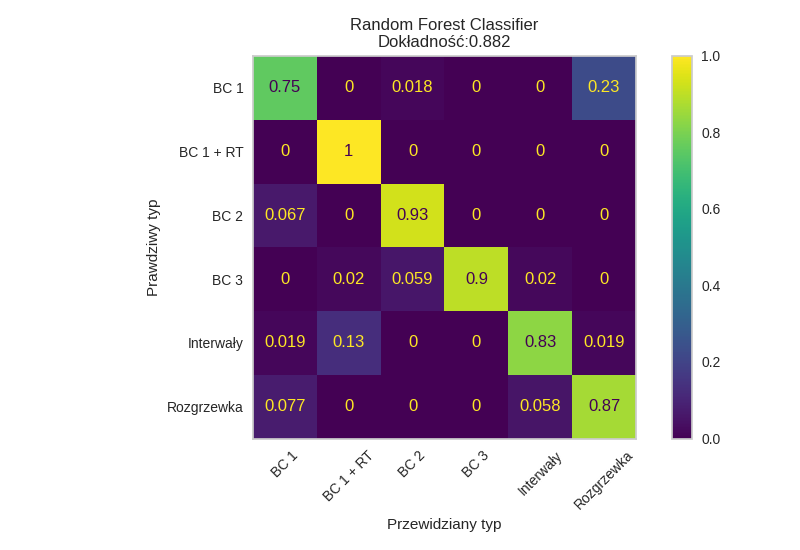
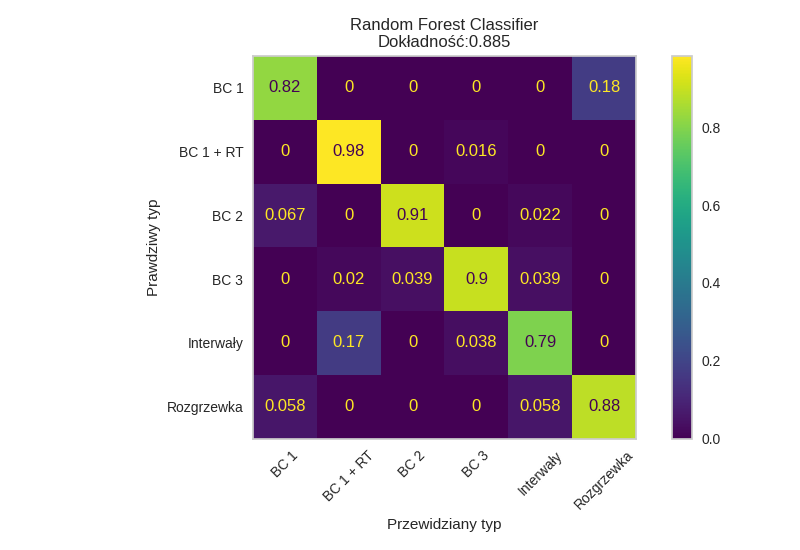
added files

diff --git a/garmin_spider/ml/predict_trening_type.py b/garmin_spider/ml/predict_trening_type.py
@@ -89,15 +89,16 @@ def plot_dataset(X, y):
     plt.show()
     plt.clf()
 
-def plot_classification_report(clf, X_test, y_test):
+def plot_classification_report(clf, X_test, y_test,name):
     plt.close('all')
     plt.clf()
     classes = list(np.unique(y_test))
     visualizer = ClassificationReport(clf, classes=classes, support=True, is_fitted='true')
-    #visualizer.fit(X_train, y_train)  # Fit the visualizer and the model
+
     visualizer.score(X_test, y_test)# Evaluate the model on the test data
     save_dir = '/home/zywko/PycharmProjects/BA_Code/resources/garmin_plots/v3'
     save_path= path.join(save_dir,name+"_raport.png")
+    visualizer.set_title(name)
     visualizer.show()
 
     pass
@@ -253,7 +254,7 @@ if __name__ == '__main__':
                 precision_recall_fscore_support_extend(clf_over,y_test_over, predictions_over,name)
 
             if plot_report:
-                plot_classification_report(clf, X_test_over, y_test_over)
+                plot_classification_report(clf, X_test_over, y_test_over,name)
 
             delta = accurancy_over - accurancy
             df.loc[i] = [name, accurancy, accurancy_over, delta, (delta / accurancy_over) * 100]
